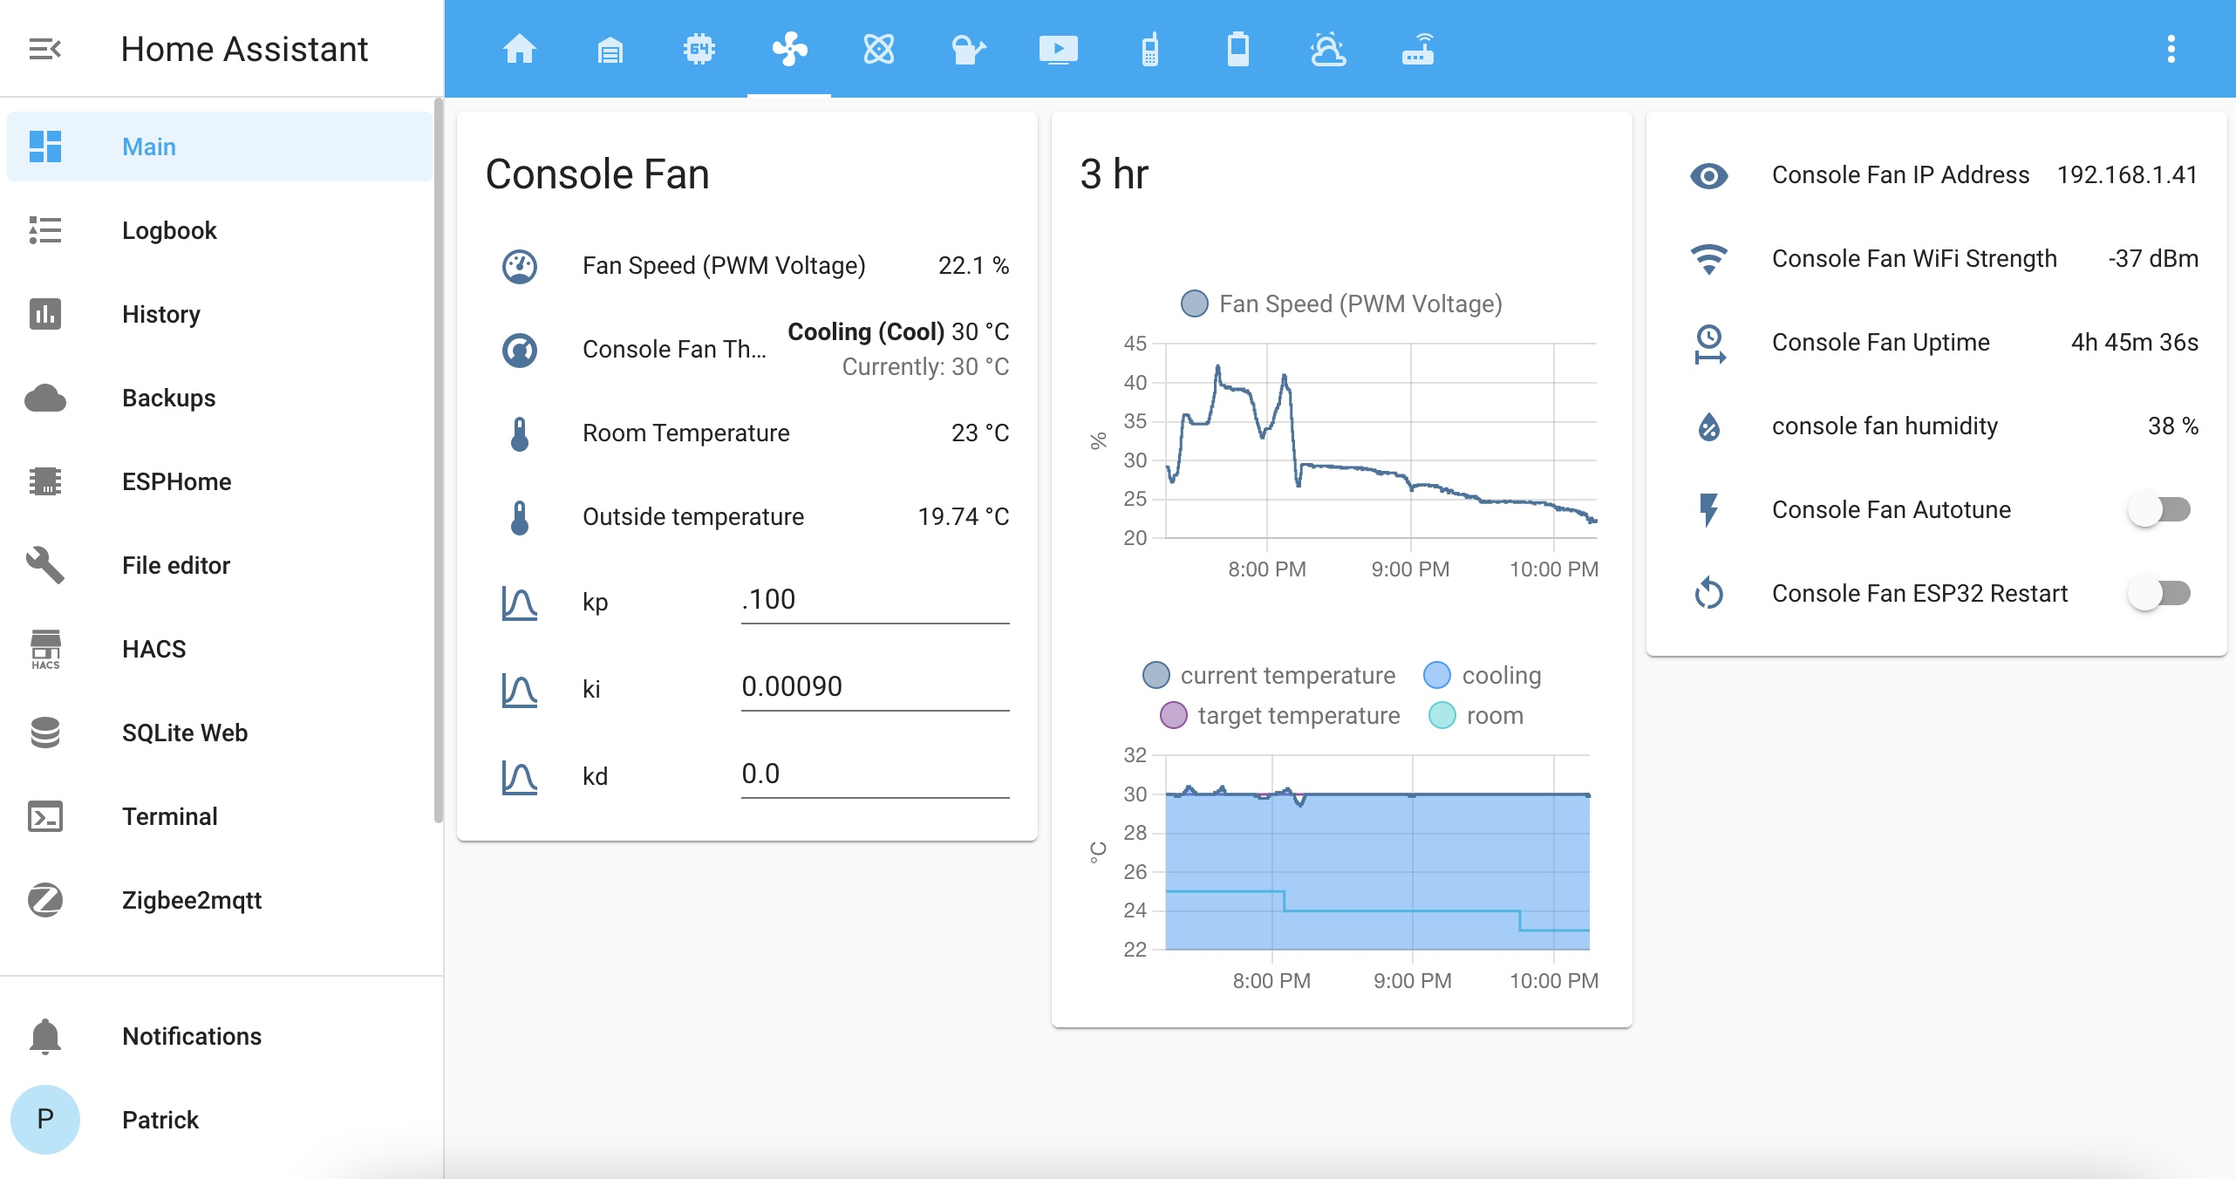
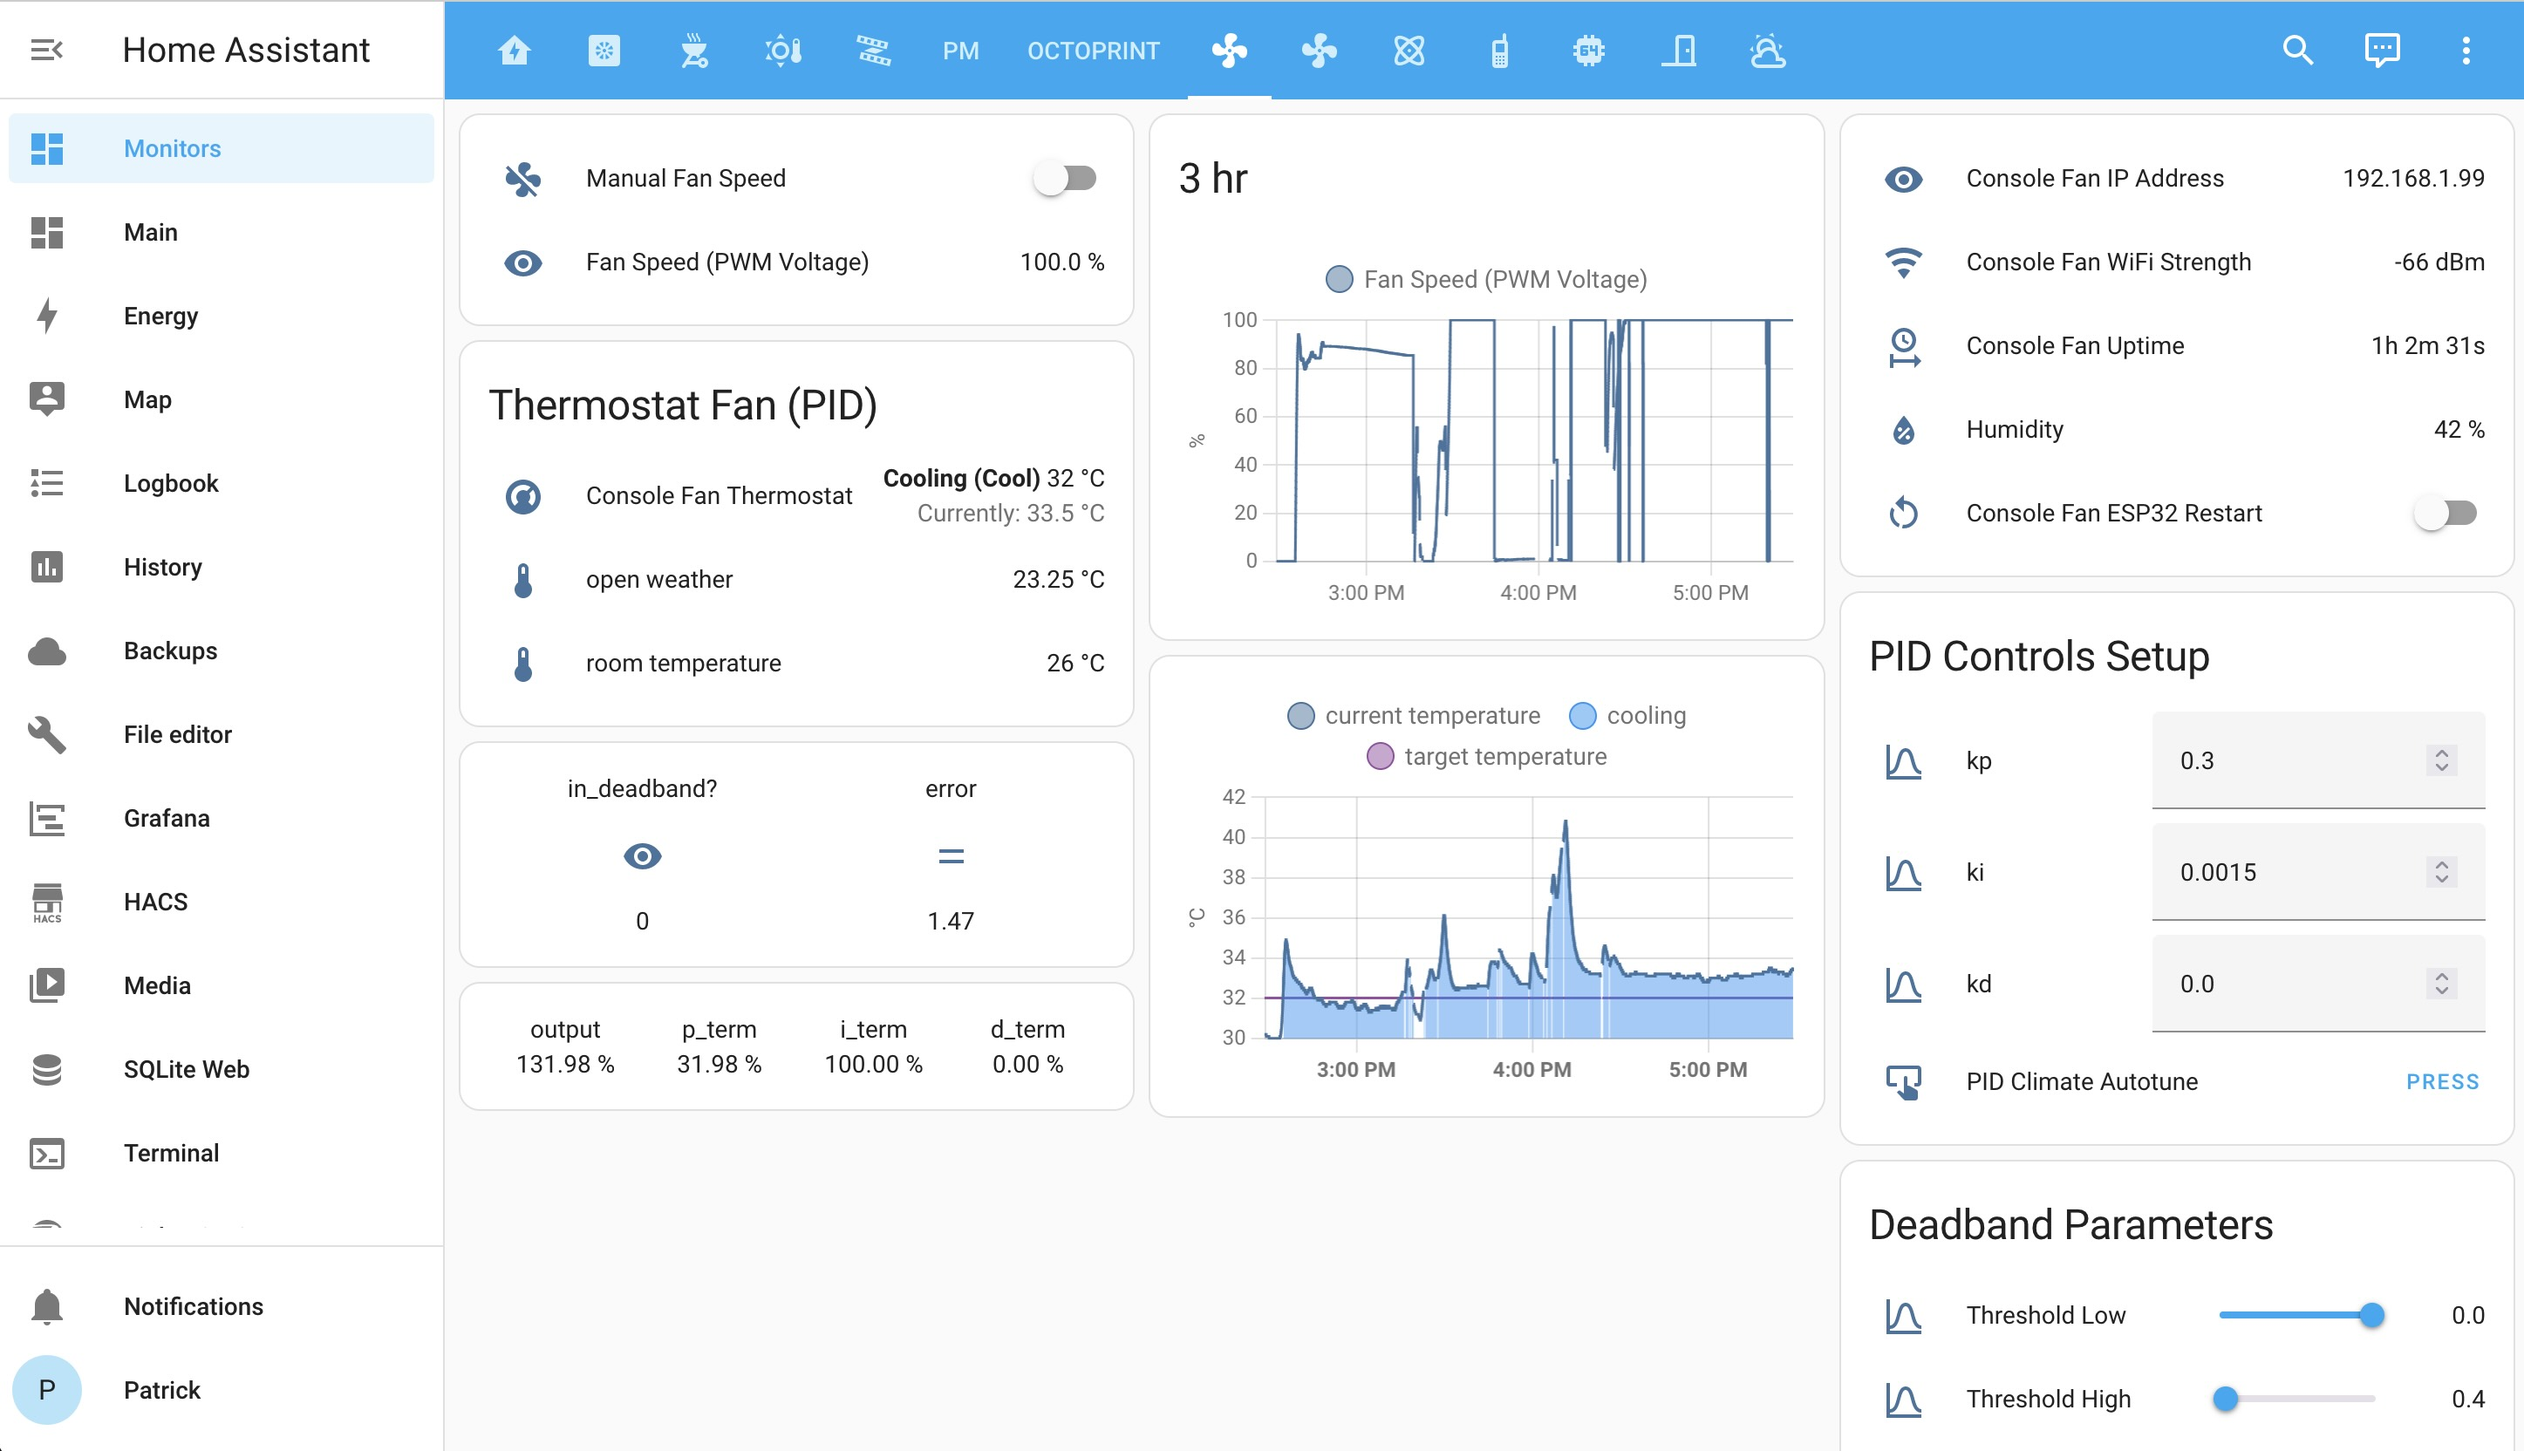
added manual control capability

diff --git a/README.md b/README.md
@@ -24,6 +24,7 @@ The main features are:
 - **no screen** is needed on the device itself, all management is done via Home Assistant
 - my system uses two fans for extra cooling. Depending on how much air you need to draw through your enclosed space you could use 1 or 2 fans
 - it is easily extendable to control up to 10 separate enclosed spaces with separate temperature sensors as well. You're only limited by the Amps of your 12v Power Brick and the pins on your ESP32.
+- **manual speed control** over ride if you don't want to use PID Control
 - **no coding is needed**. Just some configuration in YAML files. In fact this repo only contains 1 file ``config-fan.yaml``.
 - **No resistors, capacitors or difficult soldering needed**. The fan and the temperature sensor plug straight onto the pins of the ESP32. Although I did mount mine on a perfboard for cleanliness and put it in a case.
 
@@ -193,42 +194,77 @@ You also need to setup the dashboard. I'll explain those two steps below.
 
 Here is my full dashboard in Home Assistant.
 
-Let's go through them section by section.
+For this full dashboard configuration, checkout ```lovelace-dashboard.yaml```
+
+Let's go through this page section-by-section.
 
 ### The Primary Controls
 
 <img src="images/primary-controls.jpg" width=400>
-
-By clicking the thermostat you can turn on/off the thermostat and fan and adjust the target temperature which will be persisted to flash on the ESP32.
-
+ 
 ```yaml
 type: entities
-title: Console Fan
 entities:
+  - entity: fan.manual_fan_speed
   - entity: sensor.fan_speed_pwm_voltage
-  - entity: climate.console_fan_thermostat
-  - entity: sensor.contact_sensor_1_temperature
-    name: Room Temperature
-  - entity: sensor.openweathermap_temperature
-    name: Outside temperature
-  - entity: number.console_fan_kp
-  - entity: number.console_fan_ki
-  - entity: number.console_fan_kd
-  ```
+```
+
+- You can turn on  `manual fan speed` and use this fan control to adjust the speed manually. 
 
 - The ``Fan Speed (PWM Voltage)`` is the % of voltage being sent out via PWM to the fan controller. At 100% it will be sending 12v, at 50% it will be sending 6v.
 
-- The ``Console Fan Thermostat`` is a controllable thermostat, by clicking it you can alter the target temperature and turn the fan on/off.
+If `manual fan speed` is off, this next card stack will conditionally display.
 
-- The Room and Outside temperatures are from other sensors in my house for reference.
+```yaml
+type: conditional
+conditions:
+  - condition: state
+    entity: fan.manual_fan_speed
+    state_not: 'on'
+card:
+  type: vertical-stack
+  cards:
+    - type: entities
+      title: Thermostat Fan (PID)
+      entities:
+        - entity: climate.console_fan_thermostat
+        - entity: sensor.openweathermap_temperature
+          name: open weather
+        - entity: sensor.contact_sensor_1_device_temperature
+          name: room temperature
+    - type: vertical-stack
+      cards:
+        - type: glance
+          entities:
+            - entity: sensor.console_fan_is_in_deadband
+              name: in_deadband?
+            - entity: sensor.console_fan_error_value
+              name: error
+              icon: mdi:equal
+        - type: glance
+          show_icon: false
+          entities:
+            - entity: sensor.console_fan_output_value
+              name: output
+            - entity: sensor.console_fan_p_term
+              name: p_term
+            - entity: sensor.console_fan_i_term
+              name: i_term
+            - entity: sensor.console_fan_d_term
+              name: d_term
+```
+
+- The `Console Fan Thermostat` is a controllable thermostat, by clicking it you can alter the target temperature and turn the fan on/off. These changes will be persisted to flash on the ESP32.
+
+- The `Open Weather` and `Room` temperatures are from other sensors in my house for reference.
 
 - The ``kp, ki and kd`` inputs are exposed from the device. Your ESP32 will be automatically receiving changes to these values to control the behavior of the PID controller. While you could tune these from the config.yaml it requires a compile, upload and reboot cycle each time. This is inconvenient and best to tweak in real-time. We want to expose these 3 parameters to a Home Assistant dashboard.
 
 ### The Graphs
 
-<img src="images/graphs.jpg" width=400>
-
 Add the fan speed and the thermostat to two separate graphs. I've also added my room temperature from a separate device for comparison.
+
+<img src="images/graphs.jpg" width=400>
 
 ```yaml
 type: vertical-stack
@@ -271,6 +307,40 @@ entities:
 - ``console_fan_autotune`` is a button which starts the [PID tuning](https://esphome.io/components/climate/pid.html#autotuning) process. I ended up abandoning this approach and manually tuning the PID.
 
 - ``console_fan_esp32_restart`` restarts the ESP32 remotely.
+
+### PID Parameters - setting the PID parameters from the frontend
+
+This dashboard allows you to configure the PID parameters. See the next section for how to set these parameters.
+This dashboard will conditionally disappear if `manual fan speed` control is `on`.
+
+<img src="images/pid-controls.jpg" width=400>
+
+```yaml
+type: conditional
+conditions:
+  - condition: state
+    entity: fan.manual_fan_speed
+    state_not: 'on'
+card:
+  type: vertical-stack
+  cards:
+    - type: entities
+      entities:
+        - entity: number.kp
+        - entity: number.ki
+        - entity: number.kd
+        - entity: button.pid_climate_autotune
+      title: PID Controls Setup
+    - type: entities
+      entities:
+        - entity: number.deadband_threshold_low
+          name: Threshold Low
+        - entity: number.deadband_threshold_high
+          name: Threshold High
+        - entity: number.deadband_ki_multiplier
+          name: ki multiplier
+      title: Deadband Parameters
+```
 
 ## Configuring the PID Parameters
 
